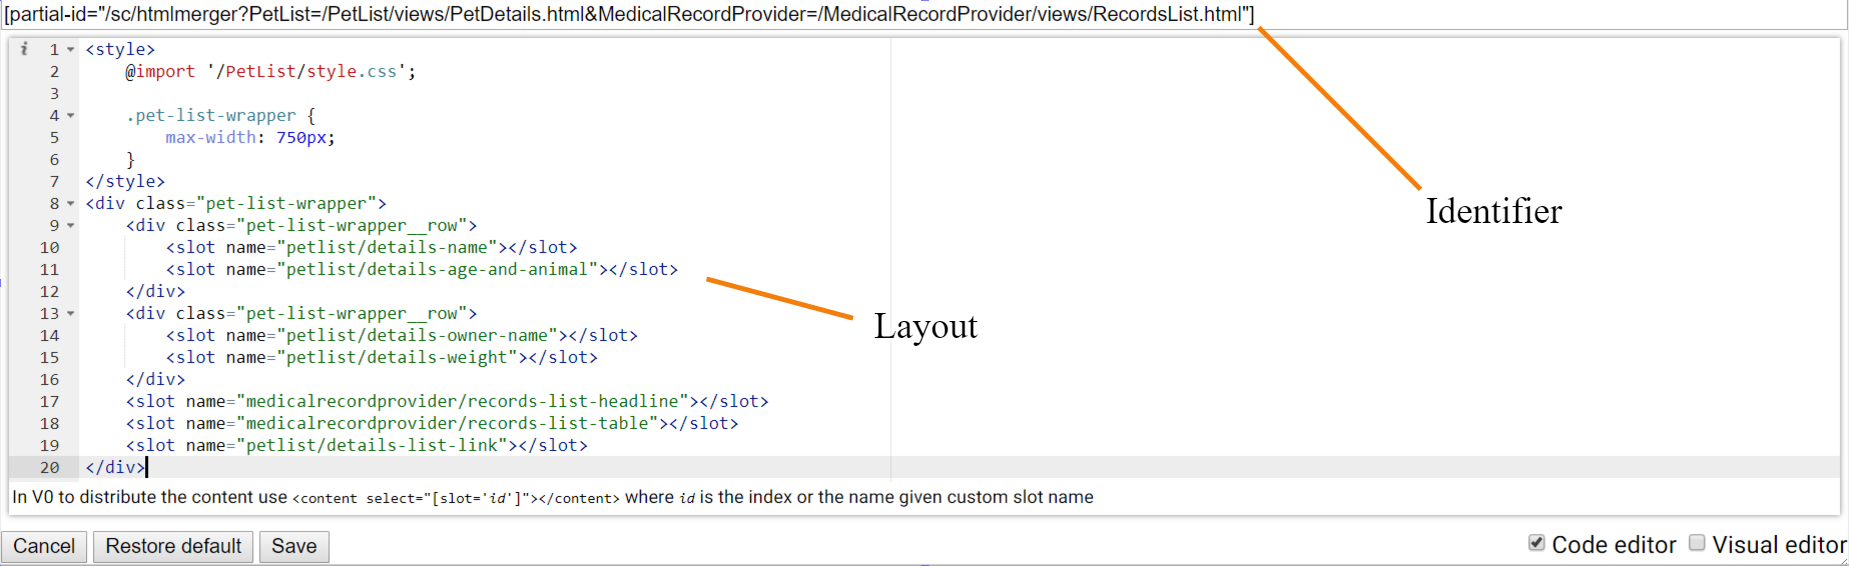
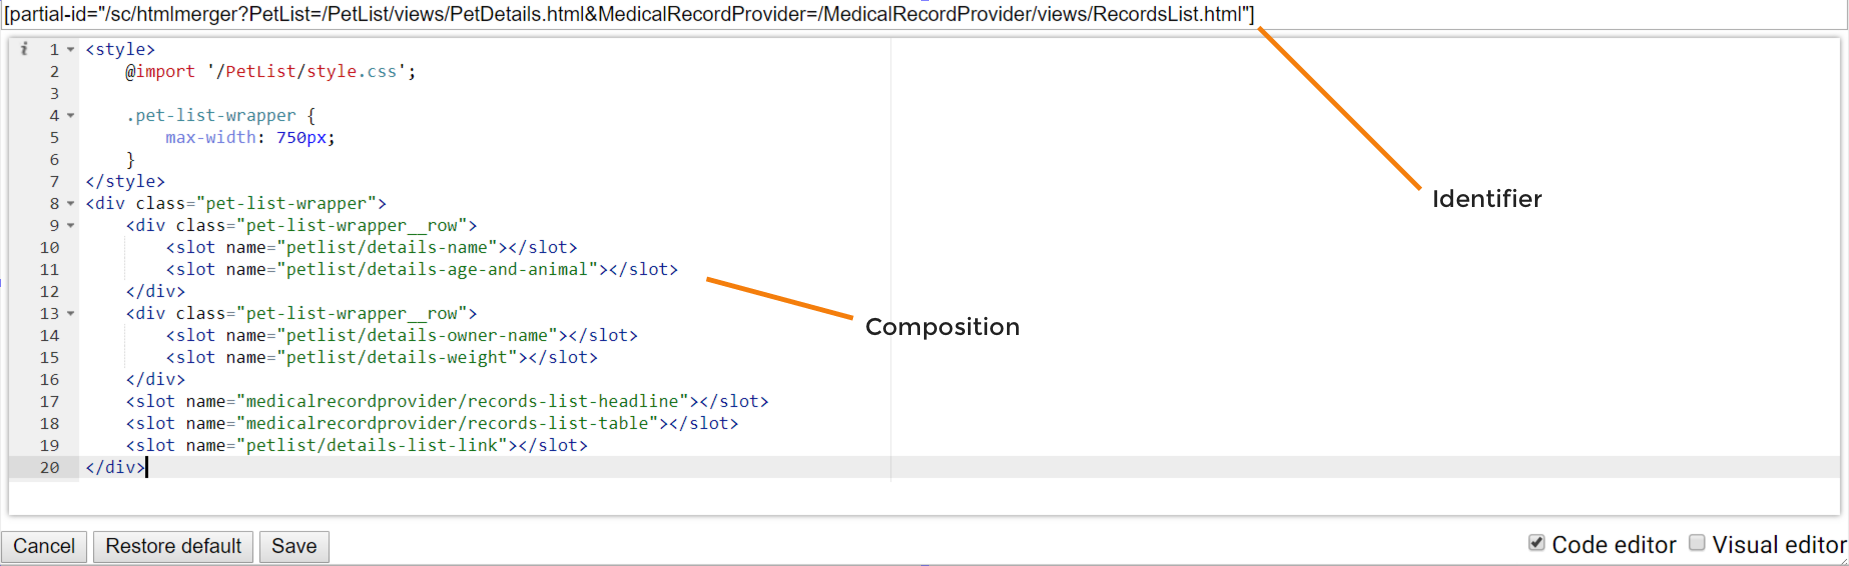
change CompositionEditor to composition editor feature of BlendingEditor consistently

Changed region(s): [[0.0, 0.871, 0.5857, 0.9011], [0.7707, 0.3304, 0.8632, 0.3905], [0.4624, 0.5406, 0.5549, 0.6007]]

diff --git a/docs/topic-guides/blendable-web-apps/view-composing.md b/docs/topic-guides/blendable-web-apps/view-composing.md
@@ -45,7 +45,7 @@ The structure of this separation looks like this:
 
 Here, the content of the view is defined on the root level and the composition is defined inside the `declarative-shadow-dom`. The [slot](https://developer.mozilla.org/en-US/docs/Web/HTML/Element/slot) elements are insertion points for the content into the composition.
 
-The `declarative-shadow-dom` is used as the default composition that can be further modified or replaced in runtime using the Starcounter system app [Blending](https://github.com/Starcounter/Blending) and its feature - compositionEditor.
+The `declarative-shadow-dom` is used as the default composition that can be further modified or replaced in runtime using the Starcounter  app suite [Blending](https://github.com/Starcounter/Blending) and its feature - composition editor.
 
 ## Composing the attached views
 
@@ -124,9 +124,9 @@ To create a custom composition, we will move the MedicalRecord table and headlin
 
 We have now produced the result shown in the image above; the view from the MedicalRecord app has been neatly integrated with the view from PetList.
 
-The tool for creating these custom compositions is the [CompositionEditor](https://github.com/starcounterapps/CompositionEditor) app. When this app is running, you can open it at any page with `Ctrl + E`. When the app opens, it gives you an HTML editor for the composition of your attached views. 
+The tool for creating these custom compositions is the composition editor feature of [BlendingEditor](https://github.com/Starcounter/Blending). When this app is running, you can open it at any page with `Ctrl + E`. When the app opens, it gives you an HTML editor for the composition of your attached views. 
 
-There are two main concepts in the CompositionEditor - the identifier and composition \("layout" on the below picture\).
+There are two main concepts in the composition editor - the identifier and composition \("layout" on the below picture\).
 
 ![](../../.gitbook/assets/compositioneditor.png)
 

diff --git a/docs/topic-guides/blendable-web-apps/html-views-composition-guidelines.md b/docs/topic-guides/blendable-web-apps/html-views-composition-guidelines.md
@@ -80,7 +80,7 @@ When no slot name is provided for an element it will be distributed in [the defa
 
 Text nodes are also distributed in the default slot.
 
-Use explicit slot names instead of relying on the default slot. The solution owner can remove the default slot from a view composition with the [CompositionEditor](https://github.com/Starcounter/Blending#blending-app-suite). As a result, all elements from the view that don't have a `slot` attribute are not rendered.
+Use explicit slot names instead of relying on the default slot. The solution owner can remove the default slot from a view composition with  composition editor feature of [BlendingEditor](https://github.com/Starcounter/Blending#blending-app-suite). As a result, all elements from the view that don't have a `slot` attribute are not rendered.
 
 It's not necessary to declare the default slot in the `declarative-shadow-dom` part of your view. The Starcounter's HTML merger automatically adds a default slot at the bottom of the composition of your view for fallback reasons.
 
